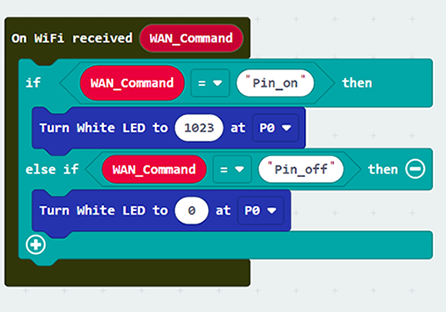
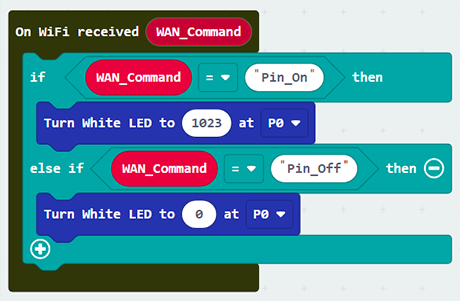
add the gif to iot bit

diff --git a/docs/smartcity/chapter3.md b/docs/smartcity/chapter3.md
@@ -99,8 +99,8 @@ After connected to the WiFI, the connection to the server will be done automatic
 To get the command, we can use the `on Wi-Fi received` handler in WAN control tab.<BR>
 * Snap the `on WiFi received` handler to stage
 * Do the `if-condition statement` to the variable `WAN_Command`
-* If `Wan_command` “Pin_on” is received, white LED will be turned on (intensity:1023)
-* If `Wan_command` “Pin_off” is received, white LED will be turned off (intensity:0)<BR>
+* If `Wan_command` “Pin_On” is received, white LED will be turned on (intensity:1023)
+* If `Wan_command` “Pin_Off” is received, white LED will be turned off (intensity:0)<BR>
 
 Attention: Please be aware that the **P** is in capital letter.
 <P>
@@ -126,9 +126,9 @@ You may also show the `WAN_Command` and `value` by `show string`.<P>
 
 
 <span id="subtitle">Full Solution<BR><P>
-MakeCode: [https://makecode.microbit.org/_dfpWpXcU1JjY](https://makecode.microbit.org/#pub:_dfpWpXcU1JjY)<BR><P>
+MakeCode: [https://makecode.microbit.org/_bMFRmFYP2fdv](https://makecode.microbit.org/#pub:_bMFRmFYP2fdv)<BR><P>
 You could also download the program from the following website:<BR>
-<iframe src="https://makecode.microbit.org/#pub:_dfpWpXcU1JjY" width="100%" height="500" frameborder="0"></iframe><P>
+<iframe src="https://makecode.microbit.org/#pub:_bMFRmFYP2fdv" width="100%" height="500" frameborder="0"></iframe><P>
 
 
 ## Part 2: App Inventor 2 configuration

diff --git a/docs/smartcity/2_IOTbit.md b/docs/smartcity/2_IOTbit.md
@@ -136,3 +136,24 @@ Python is one of the most famous programming language, widely used in school and
 ![auto_fit](images/2_IOT/iot_image14.png)
 
 
+## Quick Start
+
+<H4>1.Plug the Mirco:bit(with Program) into the the slot</H4><P>
+
+>![auto_fit](images/2_IOT/iot_MBsolt.gif)<P>
+
+<H4>2.Get the power supply and turn on</H4><P>
+
+Method 1:<P>
+
+>Plug the USB cable into the USB port and turn on the switch<P>
+
+>![auto_fit](images/2_IOT/iot_usb.gif)<P>
+
+Method 2:<P>
+
+>Plug the battery case(1.5V AA*4) into the battery port and turn on the switch<P>
+
+>![auto_fit](images/2_IOT/iot_battery.gif)<P>
+
+
